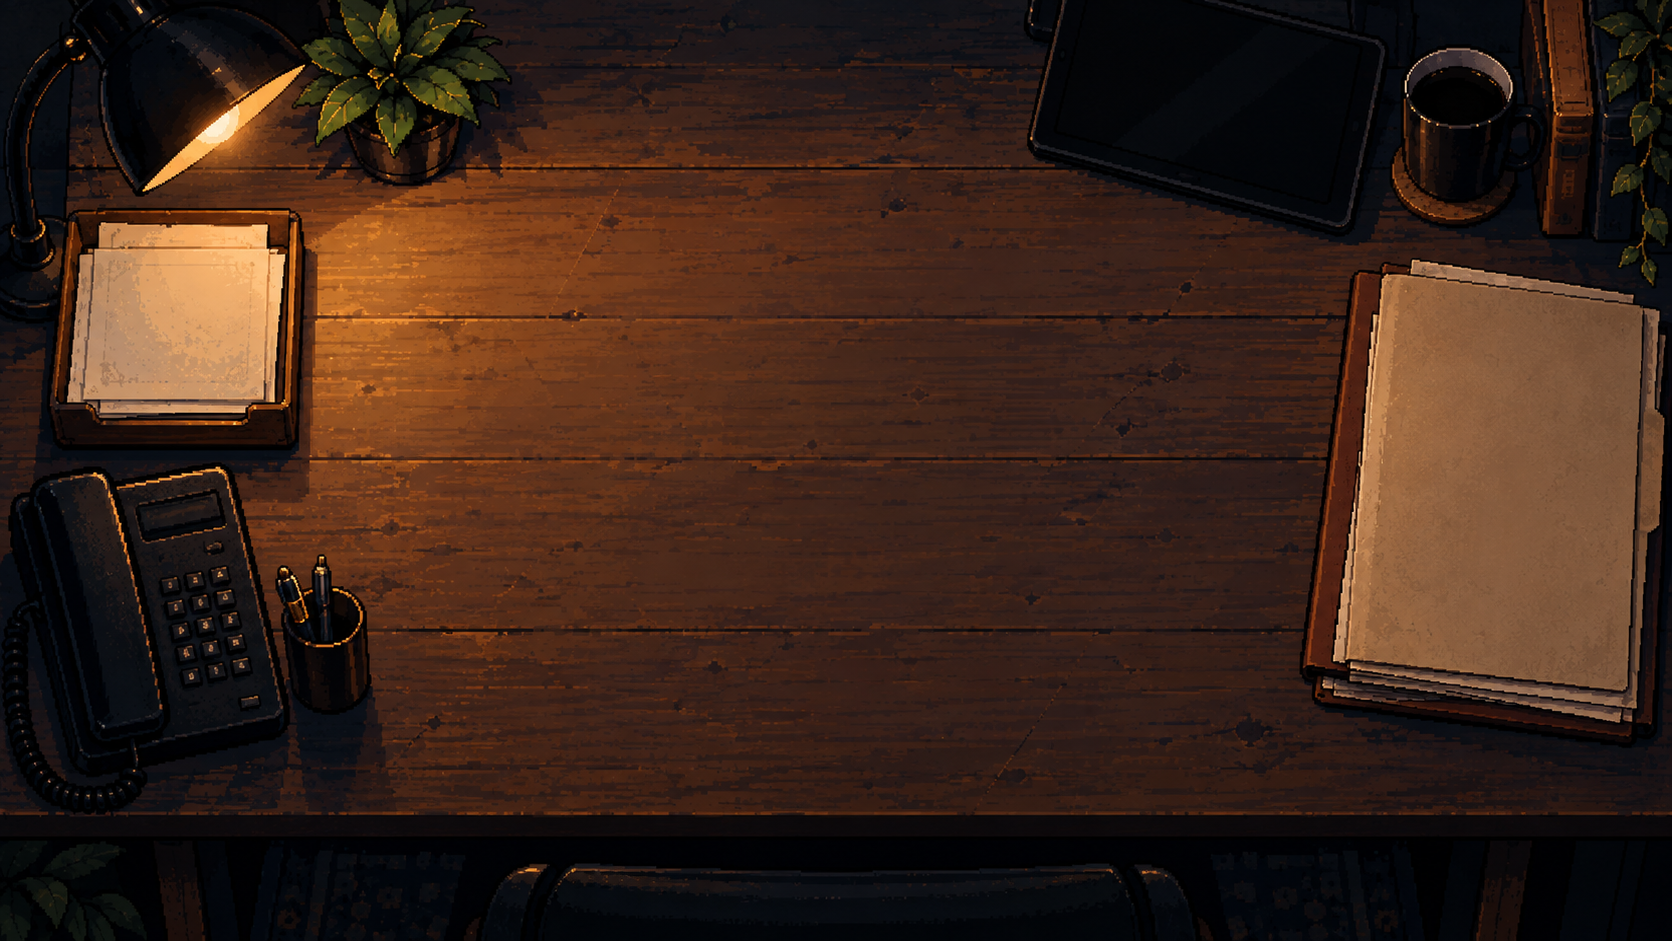
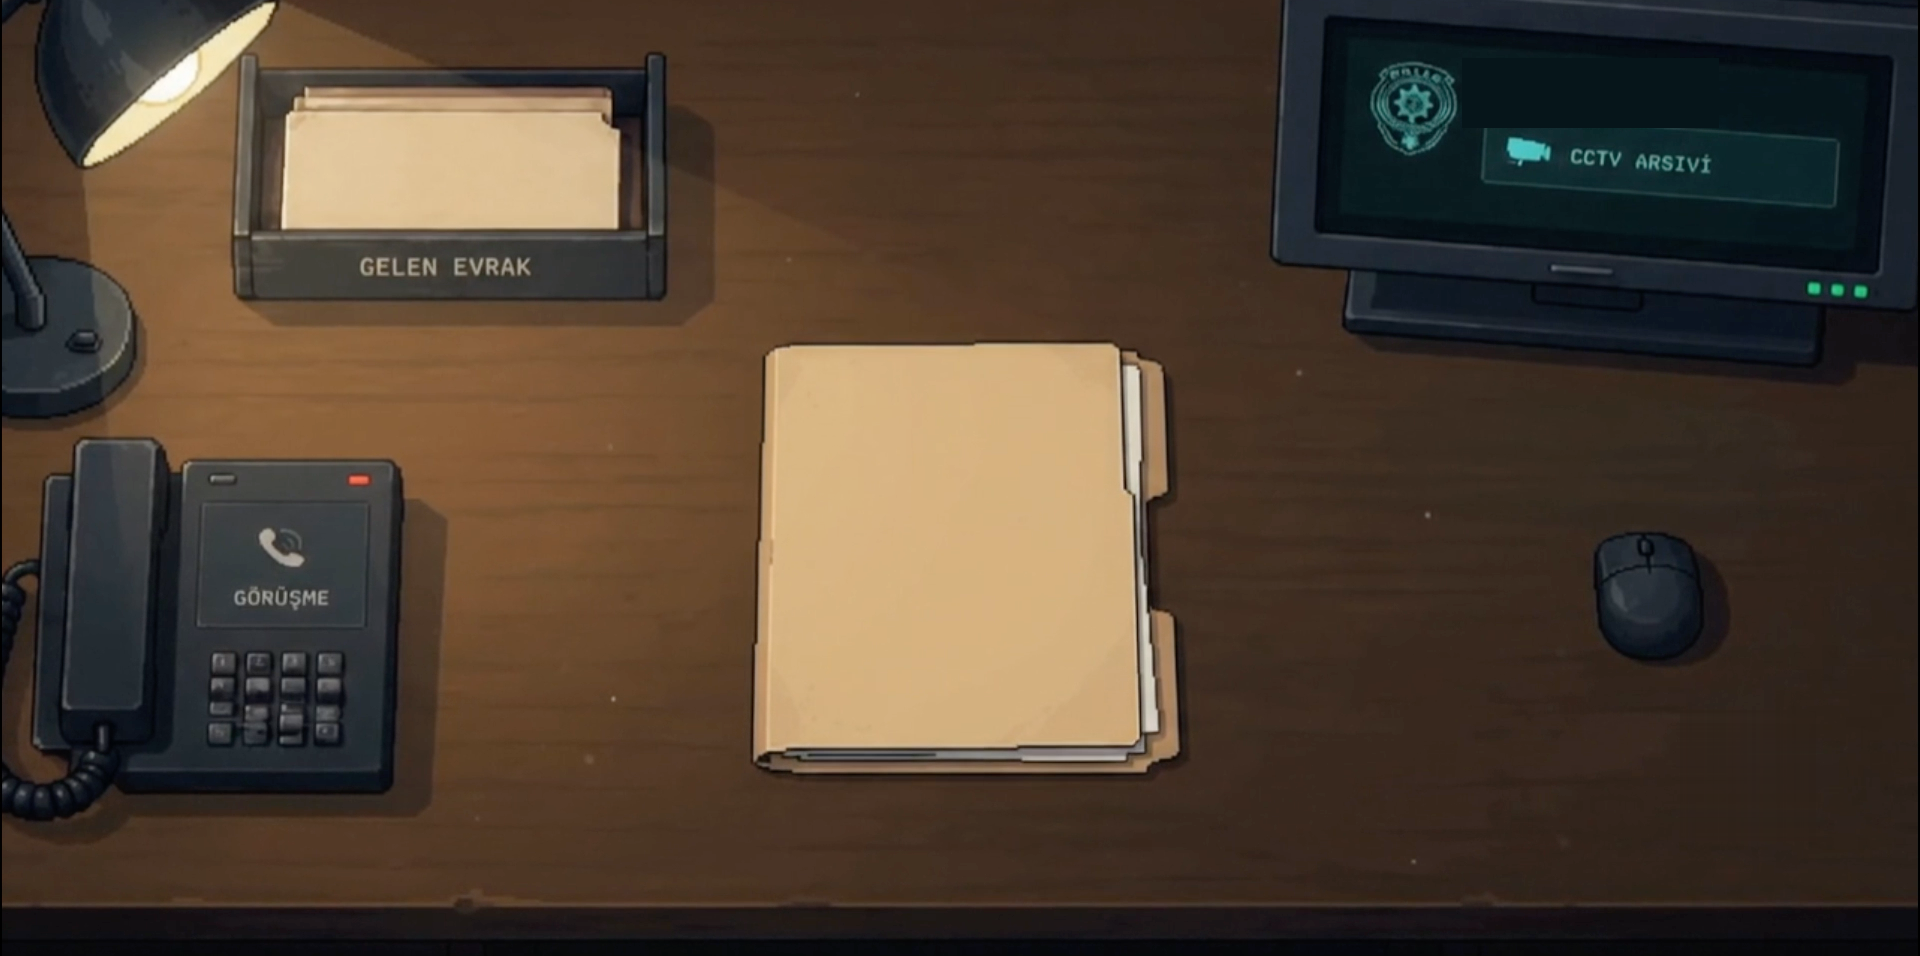
Masaya dosya birakilisi sinematik video oldu
case_animation.mov H.264 mp4'e cevrilip case001_arrival.mp4 olarak
kondu (Android .mov'u guvenilir oynatmaz). Elle cizilmis kayan klasor
animasyonu artik yalnizca video oynatilamazsa devreye giren yedek.

Uretici filigrani "Gec" dugmesiyle ortuluyor, dunya sinematigindeki
gibi. Filigran yeri veriden geliyor: CornerMark filmin kendi karesine
oranli (0..1) ve PositionIntroSkip sabit 1280x720 varsayimi yerine
filmin ekrandaki gercek dikdortgenini hesapliyor, yani her video kendi
filigran yerini soyleyebiliyor. world01 degerleri piksel esdeger.

Masa arka plani videonun son karesi oldu; sinematik bitince ekran
sicramiyor. Duran gorselde "Gec" dugmesi olmadigi icin filigran oradan
silindi (dort kenardan ice interpolasyon; yandan yama vinyet yuzunden
dikis birakiyordu).

Terminaldeki "EMNIYET SISTEMI" gorselden silindi, yerine koddan
"BPS KAYIT SISTEMI" yaziliyor - yani yerellestirilebilir. Arma
kullanici karariyla kaliyor. Video hala o yaziyi gosteriyor, yeniden
uretilmeli.

Kunye seridi ustten alta tasindi: ust serit gorseldeki kurum seridini
ortmek icindi, o serit artik yok ve ustte terminal ile evrak tepsisi
var. Butun dokunma noktalari yeni gorsele gore yeniden olculdu -
Play Mode'da gozle dogrulanmali.

46 EditMode + 5 PlayMode gecti.

diff --git a/Assets/Bube/Runtime/BubeApp.cs b/Assets/Bube/Runtime/BubeApp.cs
@@ -73,6 +73,8 @@ public sealed class BubeApp : MonoBehaviour {
  VisualElement introPlace;
  Button introSkip;
  WorldIntro activeIntro;
+ CornerMark activeMark;
+ bool deskArrivalDone;
  Action introAfter;
  VideoPlayer cctvPlayer;
  RenderTexture cctvTexture;
@@ -733,6 +735,7 @@ public sealed class BubeApp : MonoBehaviour {
   skip.style.color=Ink;skip.style.fontSize=Typography.Snap(16);root.Add(skip);
   if(activeIntro.skipCoversCornerMark) {
    introSkip=skip;
+   activeMark=activeIntro.skipMark ?? new CornerMark();
    root.RegisterCallback<GeometryChangedEvent>(OnIntroGeometryChanged);
    skip.schedule.Execute(PositionIntroSkip).StartingIn(0);
   }
@@ -750,17 +753,21 @@ public sealed class BubeApp : MonoBehaviour {
   introPlayer.Prepare();
  }
  void OnIntroGeometryChanged(GeometryChangedEvent evt) { PositionIntroSkip(); }
+ // "Gec" dugmesi uretici filigraninin tam ustune oturur: filigran filmin kendi
+ // karesine oranli oldugu icin once filmin ekrandaki gercek dikdortgeni bulunur.
+ // Film 16:9 olarak taranip kirpildigindan telefonun eni ne olursa olsun dogru yere gelir.
  void PositionIntroSkip() {
-  if(introSkip==null || root==null)return;
+  if(introSkip==null || root==null || activeMark==null)return;
   float width=root.resolvedStyle.width, height=root.resolvedStyle.height;
   if(float.IsNaN(width) || float.IsNaN(height) || width<=0 || height<=0)return;
-  float scale=Mathf.Max(width/1280f,height/720f);
-  float offsetX=(width-1280f*scale)*.5f;
-  float offsetY=(height-720f*scale)*.5f;
-  float buttonWidth=Mathf.Max(150f,78f*scale);
-  float buttonHeight=Mathf.Max(MinimumTouchTarget,76f*scale);
-  float centerX=offsetX+1159f*scale;
-  float centerY=offsetY+600f*scale;
+  float scale=Mathf.Max(width/16f,height/9f);
+  float filmWidth=16f*scale, filmHeight=9f*scale;
+  float offsetX=(width-filmWidth)*.5f;
+  float offsetY=(height-filmHeight)*.5f;
+  float buttonWidth=Mathf.Max(150f,activeMark.w*filmWidth);
+  float buttonHeight=Mathf.Max(MinimumTouchTarget,activeMark.h*filmHeight);
+  float centerX=offsetX+activeMark.x*filmWidth;
+  float centerY=offsetY+activeMark.y*filmHeight;
   introSkip.style.width=buttonWidth;
   introSkip.style.height=buttonHeight;
   introSkip.style.left=Mathf.Clamp(centerX-buttonWidth*.5f,0f,Mathf.Max(0f,width-buttonWidth));
@@ -787,7 +794,7 @@ public sealed class BubeApp : MonoBehaviour {
   var after=introAfter;
   if(introSkip!=null)root.UnregisterCallback<GeometryChangedEvent>(OnIntroGeometryChanged);
   introSkip=null;
-  activeIntro=null;introAfter=null;introBrand=null;introPlace=null;
+  activeIntro=null;introAfter=null;introBrand=null;introPlace=null;activeMark=null;
   if(introPlayer!=null) {
    introPlayer.prepareCompleted-=OnIntroPrepared;
    introPlayer.loopPointReached-=OnIntroEnded;
@@ -797,7 +804,58 @@ public sealed class BubeApp : MonoBehaviour {
   if(introTexture!=null){introTexture.Release();Destroy(introTexture);introTexture=null;}
   if(!game.Career.seenWorldIntros.Contains(world.id))game.Career.seenWorldIntros.Add(world.id);
   Save();
-  if(world.deskArrival)StartCoroutine(FirstDeskArrival(after));
+  if(!world.deskArrival){after();return;}
+  if(!string.IsNullOrEmpty(world.deskArrivalVideo))PlayDeskArrival(world,after);
+  else StartCoroutine(FirstDeskArrival(after));
+ }
+ // Dosyanin masaya birakilisi artik cizilmis bir animasyon degil, sinematik bir
+ // video. Video yoksa ya da oynatilamazsa asagidaki elle cizilmis animasyon
+ // devreye girer; oyun hicbir kosulda bu andan yoksun kalmaz.
+ void PlayDeskArrival(WorldIntro world,Action after) {
+  EnsureScene("OfficeScene");
+  root.Clear();
+  root.style.backgroundColor=Color.black;
+  deskArrivalDone=false;
+  introTexture=new RenderTexture(1920,1080,0,RenderTextureFormat.ARGB32);
+  introTexture.Create();
+  var film=new Image { image=introTexture, scaleMode=ScaleMode.ScaleAndCrop, pickingMode=PickingMode.Ignore };
+  film.style.position=Position.Absolute;
+  film.style.left=0;film.style.right=0;film.style.top=0;film.style.bottom=0;
+  root.Add(film);
+  var skip=new Button(()=>FinishDeskArrival(after,false)){text=T("intro.skip")};
+  skip.style.position=Position.Absolute;
+  skip.style.backgroundColor=Card;skip.style.color=Ink;
+  skip.style.fontSize=Typography.Snap(16);
+  root.Add(skip);
+  introSkip=skip;
+  activeMark=world.deskArrivalMark ?? new CornerMark();
+  root.RegisterCallback<GeometryChangedEvent>(OnIntroGeometryChanged);
+  skip.schedule.Execute(PositionIntroSkip).StartingIn(0);
+  introPlayer=gameObject.AddComponent<VideoPlayer>();
+  introPlayer.playOnAwake=false;
+  introPlayer.isLooping=false;
+  introPlayer.renderMode=VideoRenderMode.RenderTexture;
+  introPlayer.targetTexture=introTexture;
+  introPlayer.audioOutputMode=VideoAudioOutputMode.Direct;
+  introPlayer.source=VideoSource.Url;
+  introPlayer.url=Application.streamingAssetsPath+"/"+world.deskArrivalVideo;
+  introPlayer.prepareCompleted+=OnIntroPrepared;
+  introPlayer.loopPointReached+=_=>FinishDeskArrival(after,false);
+  introPlayer.errorReceived+=(_,message)=>{
+   Debug.LogWarning("Desk arrival video unavailable: "+message);
+   FinishDeskArrival(after,true);
+  };
+  introPlayer.Prepare();
+ }
+ // Hem "Gec" dugmesi hem videonun bitisi buraya gelir; bayrak ikinci cagriyi yutar.
+ void FinishDeskArrival(Action after,bool fallback) {
+  if(deskArrivalDone)return;
+  deskArrivalDone=true;
+  if(introSkip!=null)root.UnregisterCallback<GeometryChangedEvent>(OnIntroGeometryChanged);
+  introSkip=null;activeMark=null;
+  if(introPlayer!=null){introPlayer.Stop();Destroy(introPlayer);introPlayer=null;}
+  if(introTexture!=null){introTexture.Release();Destroy(introTexture);introTexture=null;}
+  if(fallback)StartCoroutine(FirstDeskArrival(after));
   else after();
  }
  IEnumerator FirstDeskArrival(Action after) {
@@ -1067,7 +1125,7 @@ public sealed class BubeApp : MonoBehaviour {
   showingInterviewList=false;
   showingInvestigationRequests=false;
   root.Clear();
-  var texture=Resources.Load<Texture2D>("Bube/DeskReference");
+  var texture=Resources.Load<Texture2D>("Bube/DeskV2");
   if(texture==null) {
    Frame(T("desk"),T("desk.title"),T("desk.subtitle"));
    Button(root,T("desk.open"),FilePage,true);Button(root,T("back.home"),Home);return;
@@ -1078,7 +1136,7 @@ public sealed class BubeApp : MonoBehaviour {
   root.Add(image);
   var badge=new VisualElement();
   badge.style.position=Position.Absolute;
-  badge.style.left=Length.Percent(32.5f);badge.style.top=Length.Percent(31.6f);
+  badge.style.left=Length.Percent(33f);badge.style.top=Length.Percent(4f);
   badge.style.width=Length.Percent(2.6f);badge.style.height=Length.Percent(4.1f);
   badge.style.backgroundColor=new Color(.72f,.20f,.19f);
   badge.style.borderTopLeftRadius=4;badge.style.borderTopRightRadius=4;
@@ -1099,22 +1157,40 @@ public sealed class BubeApp : MonoBehaviour {
    bool dim=inboxBadge.style.opacity.value>.6f;
    inboxBadge.style.opacity=dim?.3f:1f;
   }).Every(520);
+  // Kunye serit masanin koyu on kenarinda durur. Eski tasarimda ustteydi ve
+  // gorselin icine gomulu kurum seridini ortmek icin oradaydi; o serit artik
+  // gorselde yok, ustte ise terminal ile evrak tepsisi var.
   var header=new VisualElement();
   header.style.position=Position.Absolute;header.style.left=0;header.style.right=0;
-  header.style.top=0;header.style.height=Length.Percent(11);
-  header.style.backgroundColor=new Color(.055f,.075f,.09f,.97f);
-  header.style.paddingLeft=36;header.style.paddingTop=12;
+  header.style.bottom=0;header.style.height=Length.Percent(10);
+  header.style.backgroundColor=new Color(.055f,.075f,.09f,.88f);
+  header.style.paddingLeft=36;header.style.paddingTop=10;
   root.Add(header);
-  var brand=Text(header,T("desk.brandLocation"),Ink,21);brand.style.marginBottom=2;
+  var brand=Text(header,T("desk.brandLocation"),Ink,19);brand.style.marginBottom=1;
   var caseTitle=Text(header,T(game.Data.titleKey),Gold,14);caseTitle.style.marginBottom=0;
+  // Terminaldeki kurum adi goruntuden silindi; kurgusal ad buradan, oyunun
+  // kendi fontuyla yazilir ve boylece yerellestirilebilir kalir.
+  var terminal=new VisualElement();
+  terminal.style.position=Position.Absolute;terminal.style.left=Length.Percent(76.1f);
+  terminal.style.top=Length.Percent(6f);terminal.style.width=Length.Percent(13.4f);
+  terminal.style.height=Length.Percent(7.3f);
+  terminal.style.unityTextAlign=TextAnchor.MiddleLeft;
+  terminal.pickingMode=PickingMode.Ignore;
+  root.Add(terminal);
+  var terminalText=Text(terminal,T("desk.terminalBrand"),new Color(.42f,.86f,.78f),15);
+  terminalText.style.marginBottom=0;terminalText.pickingMode=PickingMode.Ignore;
+  // Yeni gorselde dosya kapagi bos: uzerindeki yazi da artik koddan gelir.
   var patch=new VisualElement();
-  patch.style.position=Position.Absolute;patch.style.left=Length.Percent(44);
-  patch.style.top=Length.Percent(79);patch.style.width=Length.Percent(17);
-  patch.style.height=Length.Percent(7);
-  patch.style.backgroundColor=new Color(.67f,.53f,.40f);
+  patch.style.position=Position.Absolute;patch.style.left=Length.Percent(40f);
+  patch.style.top=Length.Percent(44f);patch.style.width=Length.Percent(21f);
   patch.style.unityTextAlign=TextAnchor.MiddleCenter;
+  patch.pickingMode=PickingMode.Ignore;
   root.Add(patch);
-  Text(patch,T("desk.location"),Base,16);
+  var fileTitle=Text(patch,T(game.Data.titleKey),new Color(.24f,.17f,.12f),19);
+  fileTitle.style.unityTextAlign=TextAnchor.MiddleCenter;fileTitle.style.marginBottom=6;
+  if(dossierBoldFont!=null)fileTitle.style.unityFontDefinition=FontDefinition.FromFont(dossierBoldFont);
+  var fileWhere=Text(patch,T("desk.location"),new Color(.36f,.27f,.19f),14);
+  fileWhere.style.unityTextAlign=TextAnchor.MiddleCenter;fileWhere.style.marginBottom=0;
   if(game.Career.retired) {
    var end=Panel(root);end.style.position=Position.Absolute;end.style.left=Length.Percent(30);end.style.top=Length.Percent(42);
    Text(end,T("career.endedTitle"),Gold,24);Text(end,T("career.ended"),Ink,17);
@@ -1122,31 +1198,31 @@ public sealed class BubeApp : MonoBehaviour {
   } else if(!game.State.caseAccepted) {
    // Dosya kabul edilene kadar masadaki tek etkilesim gelen evrak tepsisidir;
    // oyuncuya sirada ne yapacagi soylenmez, yalnizca evrak fark edilir.
-   Hotspot(T("desk.inbox"),16,16,22,27,InboxPage);
+   Hotspot(T("desk.inbox"),12,1,24,31,InboxPage);
   } else if(!game.State.closed) {
-   Hotspot(T("desk.inbox"),16,16,22,27,InboxPage);
-   Hotspot(T(game.Data.titleKey),36,42,30,51,FilePage);
-   Hotspot(T("kind.interview"),6,52,20,38,()=>InterviewRequests());
-   Hotspot(T(game.Data.nodes.Any(n=>n.kind=="cctv")?"kind.cctv":"kind.bps"),64,11,33,36,OpenTerminal);
+   Hotspot(T("desk.inbox"),12,1,24,31,InboxPage);
+   Hotspot(T(game.Data.titleKey),39,35,23,45,FilePage);
+   Hotspot(T("kind.interview"),1,46,21,36,()=>InterviewRequests());
+   Hotspot(T(game.Data.nodes.Any(n=>n.kind=="cctv")?"kind.cctv":"kind.bps"),66,0,33,34,OpenTerminal);
   } else {
    var closed=Panel(root);closed.style.position=Position.Absolute;
    closed.style.left=Length.Percent(38);closed.style.top=Length.Percent(51);
    Text(closed,T("desk.closed"),Ink,20);
    Button(closed,T("result.summaryOpen"),CaseSummary,true);
    Button(closed,T("result.continue"),ContinueToNextCase);
-   if(HasIncomingFax || HasIncomingDocument || AvailableAssignment()!=null)Hotspot(T("desk.inbox"),16,16,22,27,InboxPage);
+   if(HasIncomingFax || HasIncomingDocument || AvailableAssignment()!=null)Hotspot(T("desk.inbox"),12,1,24,31,InboxPage);
   }
   if(HasIncomingFax)AddFaxNotice();
   if(HasIncomingDocument)AddDocumentNotice();
   if(game.State.interviewTurns.Count>game.State.seenInterviewTurns && !game.State.closed) {
    var unread=Text(root,T("file.newTranscript"),Gold,15);
    unread.style.position=Position.Absolute;
-   unread.style.left=Length.Percent(46);unread.style.top=Length.Percent(44);
+   unread.style.left=Length.Percent(39);unread.style.top=Length.Percent(30);
    unread.style.backgroundColor=Base;
    unread.style.paddingLeft=7;unread.style.paddingRight=7;
    unread.pickingMode=PickingMode.Ignore;
   }
-  Hotspot(T("back.home"),90,0,10,12,Home);
+  Hotspot(T("back.home"),88,90,12,10,Home);
  }
  void BpsTablet(string titleKey,out VisualElement content,bool lift=true) {
   Desk();

diff --git a/Assets/Bube/Runtime/Investigation.cs b/Assets/Bube/Runtime/Investigation.cs
@@ -15,7 +15,11 @@ namespace Bube {
  }
 }
 [Serializable] public class GameConfig { public string title; public string locale; public string initialCase; public string investigatorKey; public WorldIntro[] worldIntros; }
-[Serializable] public class WorldIntro { public string id; public string firstCaseId; public string countryKey; public string locationKey; public string flagResource; public string videoPath; public bool graphicsEmbedded; public bool skipCoversCornerMark; public bool deskArrival; }
+// Uretici filigrani filmin sag alt kosesinde duruyor. "Gec" dugmesini tam
+// oraya koyup ustunu ortuyoruz; koordinatlar filmin kendi karesine oranlidir
+// (0..1), boylece her video kendi filigran yerini soyleyebilir.
+[Serializable] public class CornerMark { public float x=.9055f; public float y=.8333f; public float w=.0609f; public float h=.1056f; }
+[Serializable] public class WorldIntro { public string id; public string firstCaseId; public string countryKey; public string locationKey; public string flagResource; public string videoPath; public bool graphicsEmbedded; public bool skipCoversCornerMark; public CornerMark skipMark; public bool deskArrival; public string deskArrivalVideo; public CornerMark deskArrivalMark; }
 [Serializable] public class CaseData { public string id; public string titleKey; public bool draft; public Node[] nodes; public TimelineClue[] timelineClues; public Verdict[] verdicts; public Choice[] methods; public Choice[] evidence; public string[] conclusionRequires; public int successfulReportTrustGain; public int failedReportTrustLoss; public string nextCaseId; public CaseSummary summary; }
 [Serializable] public class TimelineClue { public string id; public string timeKey; public string noteKey; public string sourceKey; public int sortMinute; public string[] requiresRead; public string[] requiresAsked; }
 [Serializable] public class CaseSummary { public string locationKey; public string truthKey; public string evidenceKey; public string lessonKey; }

diff --git a/Assets/Bube/Editor/Validation/ProjectRules.cs b/Assets/Bube/Editor/Validation/ProjectRules.cs
@@ -10,7 +10,7 @@ public static class ProjectRules {
  public static readonly string[] SceneOrder = { "BootScene", "MainMenuScene", "OfficeScene", "InterviewScene" };
 
  static readonly (string resource, string label)[] RequiredTextures = {
-  ("Bube/DeskReference", "masa arka planı"),
+  ("Bube/DeskV2", "masa arka planı"),
   ("Bube/CctvTabletHands", "CCTV tablet görseli"),
   ("Bube/MainMenuNight", "ana menü arka planı"),
   ("Bube/InterviewRoom", "görüşme odası arka planı"),
@@ -33,6 +33,11 @@ public static class ProjectRules {
 
   foreach (var (resource, label) in RequiredTextures)
    report.Require(Resources.Load<Texture2D>(resource) != null, "Görsel yok (" + label + "): " + resource);
+
+  // Sinematikler Resources'ta degil StreamingAssets'ta durur; eksik bir video
+  // oyunu durdurmaz ama o anin sessizce kaybolmasi fark edilmelidir.
+  foreach (var video in new[] { "world01_intro.mp4", "case001_arrival.mp4" })
+   report.Require(File.Exists("Assets/StreamingAssets/Bube/" + video), "Sinematik video yok: " + video);
  }
 }
 }

diff --git a/Assets/Bube/Tests/EditMode/ValidationReportTests.cs b/Assets/Bube/Tests/EditMode/ValidationReportTests.cs
@@ -143,7 +143,7 @@ public sealed class ValidationReportTests {
  }
 
  // DİKKAT: bu test yalnız `tr.json` metnini tarar. Görsellerin içine çizilmiş
- // yazıyı göremez — `DeskReference.png`'de gerçek kurum adı ve arma gömülüdür
+ // yazıyı göremez — masa görselinin içine gömülü yazılar bunun dışındadır
  // (25 Eylül 2026'da bulundu). Görseller elle denetlenmelidir.
  [Test]
  public void ShippedText_UsesNoRealInstitutionName() {

diff --git a/Docs/Architecture.md b/Docs/Architecture.md
@@ -131,9 +131,19 @@ Toplam 51 test: 46 EditMode + 5 PlayMode.
 
 Kapsam dışı ve gözle doğrulanması gerekenler: video oynatma, çentik/güvenli alan görünümü, dokunma hedefi boyutları, Türkçe glifler, klavye davranışı, kare hızı ve okunabilirlik. Bunlar `Docs/PLAYTEST_001.md`'de.
 
+`Desk()` arka planı `Bube/DeskV2`'dir — bu, masaya bırakılış videosunun son karesidir, böylece sinematik bittiğinde ekran sıçramaz. Künye şeridi masanın alt kenarındadır; terminaldeki kurum adı ve dosya kapağındaki vaka adı görselde değil, koddan yazılır.
+
 ## Yazı ölçeği
 
 Yazı tipi tektir (IBM Plex Mono, kök öğeden miras). Punto da tektir: `Typography.Steps` dokuz basamaktır ve `Typography.Snap` ölçek dışı her değeri en yakın basamağa oturtur. `Text(...)` ve `Button(...)` boyutu **her zaman** `Snap`'ten geçirir, yani ölçek dışı bir punto ekrana ulaşamaz — yeni bir çağrı yeri eklerken ölçeği hatırlamak gerekmez. `TypographyTests` çıplak `style.fontSize=<sayı>` kalmadığını kaynak taramasıyla sabitler.
+
+## Sinematikler
+
+İki video var, ikisi de `Assets/StreamingAssets/Bube/` altında ve Git LFS ile saklanıyor: `world01_intro.mp4` (dünya açılışı) ve `case001_arrival.mp4` (dosyanın masaya bırakılışı). İkisi de `VideoPlayer` ile `RenderTexture`'a çizilip tam ekran `ScaleAndCrop` gösterilir.
+
+Üretici filigranı **"Geç" düğmesiyle örtülür**. Filigran yeri veriden gelir — `CornerMark { x, y, w, h }`, filmin kendi karesine oranlı (0..1). `PositionIntroSkip` filmin ekrandaki gerçek dikdörtgenini 16:9'dan hesaplar, yani telefonun eni ne olursa olsun düğme doğru yere oturur. Sabit 1280×720 varsayımı kaldırıldı; `world01` değerleri piksel eşdeğer kaldı.
+
+Masaya bırakılış videosu oynatılamazsa elle çizilmiş `FirstDeskArrival` animasyonu devreye girer. "Geç" ile videonun bitişi aynı yere gelir; `deskArrivalDone` bayrağı ikinci çağrıyı yutar.
 
 ## Vaka teklifi akışı
 

diff --git a/Docs/ROADMAP.md b/Docs/ROADMAP.md
@@ -39,6 +39,9 @@ Bu maddeler hiçbir aşamanın içinde değildi ama **hepsini bloke ediyor**. Ay
 - [x] **Vaka teklifi tam ekran olmaktan çıkıp masadaki gelen evrak tepsisine taşındı.** Rozet yanıp söner, oyuncu tepsiyi kendisi açar, önizlemeyi okur ve kabul eder; kabul edilmeden masada başka hiçbir şey açılmaz. Başsız **Play Mode testiyle akış uçtan uca koşturuldu ve gözlendi**.
 - [ ] **`DeskReference.png` görselinin içinde gerçek kurum adı ve arma var.** Üst şerit artık her ekranda `Desk()` tarafından örtülüyor, ama terminaldeki `EMNİYET SİSTEMİ` yazısı ve armalar duruyor. **Görselin yenilenmesi gerekiyor**; metin denetimi bunu yakalayamaz. Ayrıntı: `Docs/DESIGN_AMENDMENTS.md`.
 
+- [~] **Dosyanın masaya bırakılışı sinematik video oldu** (`case001_arrival.mp4`); filigran "Geç" düğmesiyle örtülüyor, filigran yeri veriden geliyor. Masa arka planı videonun son karesi; yerleşim ve iki metin yerleşimi **Play Mode'da gözle doğrulanmalı**.
+- [ ] **Sinematik videonun içinde hâlâ "EMNİYET SİSTEMİ" yazıyor.** Duran görselden silindi, videodan silinemedi — **video yeniden üretilmeli** (terminalde "BPS KAYIT SİSTEMİ" yazmalı).
+
 ## Her vaka için değişmeyen kabul kuralı
 
 Oyuncu kaynakları masadan kendisi açar, ifadeleri/kayıtları kendi karşılaştırır, yeni bilgiyle takip sorusunu seçer ve raporunu kanıtla savunur. Oyun otomatik ekran geçişi, görev oku, “çelişki bulundu” veya fail işaretiyle onun yerine dedektiflik yapmaz. Sonraki vakalar aynı omurgaya yeni kaynak/yetki ekler; aynı sırayı ve aynı araçları tekrarlamak zorunda değildir. `MASTER_GAME_CONTEXT.md` bu kuralın ana kaydıdır.

diff --git a/Docs/STATUS.md b/Docs/STATUS.md
@@ -54,7 +54,7 @@
 
 ## Açık kritik maddeler
 
-1. **`DeskReference.png` görselinde gerçek kurum adı ve arma gömülü** — "İSTANBUL EMNİYET MÜDÜRLÜĞÜ", terminalde "EMNİYET SİSTEMİ", polis armasına benzer rozet. Üst şerit artık her ekranda örtülüyor, geri kalanı **görselin yenilenmesini bekliyor**. Oyun içi kurum kurgusaldır (bube Polis / BPS).
+1. **Sinematik videonun içinde hâlâ "EMNİYET SİSTEMİ" yazıyor.** Masa görselinden silindi ve yerine koddan "BPS KAYIT SİSTEMİ" yazılıyor, ama **video yeniden üretilmeli**. Arma kullanıcı kararıyla kalıyor. Oyun içi kurum kurgusaldır (bube Polis / BPS).
 1. **Dosya #001 hiç baştan sona oynanmadı** — M1 ve M2'nin bitiş ölçütleri buna bağlı (Faz 2). **Asıl darboğaz budur.**
 2. **Android keystore yok** — imzalı *mağaza* sürümü üretilemez. **Düzeltme:** cihaza geliştirme derlemesi kurmak için keystore gerekmiyor (Unity hata ayıklama anahtarıyla imzalar), bu yüzden madde Faz 2'den **Faz 5'e** taşındı; parola kullanıcıya aittir.
 3. **Kayıt şeması göçü yok** — `version != 1` olduğunda ilerleme sessizce siliniyor (Faz 3).
